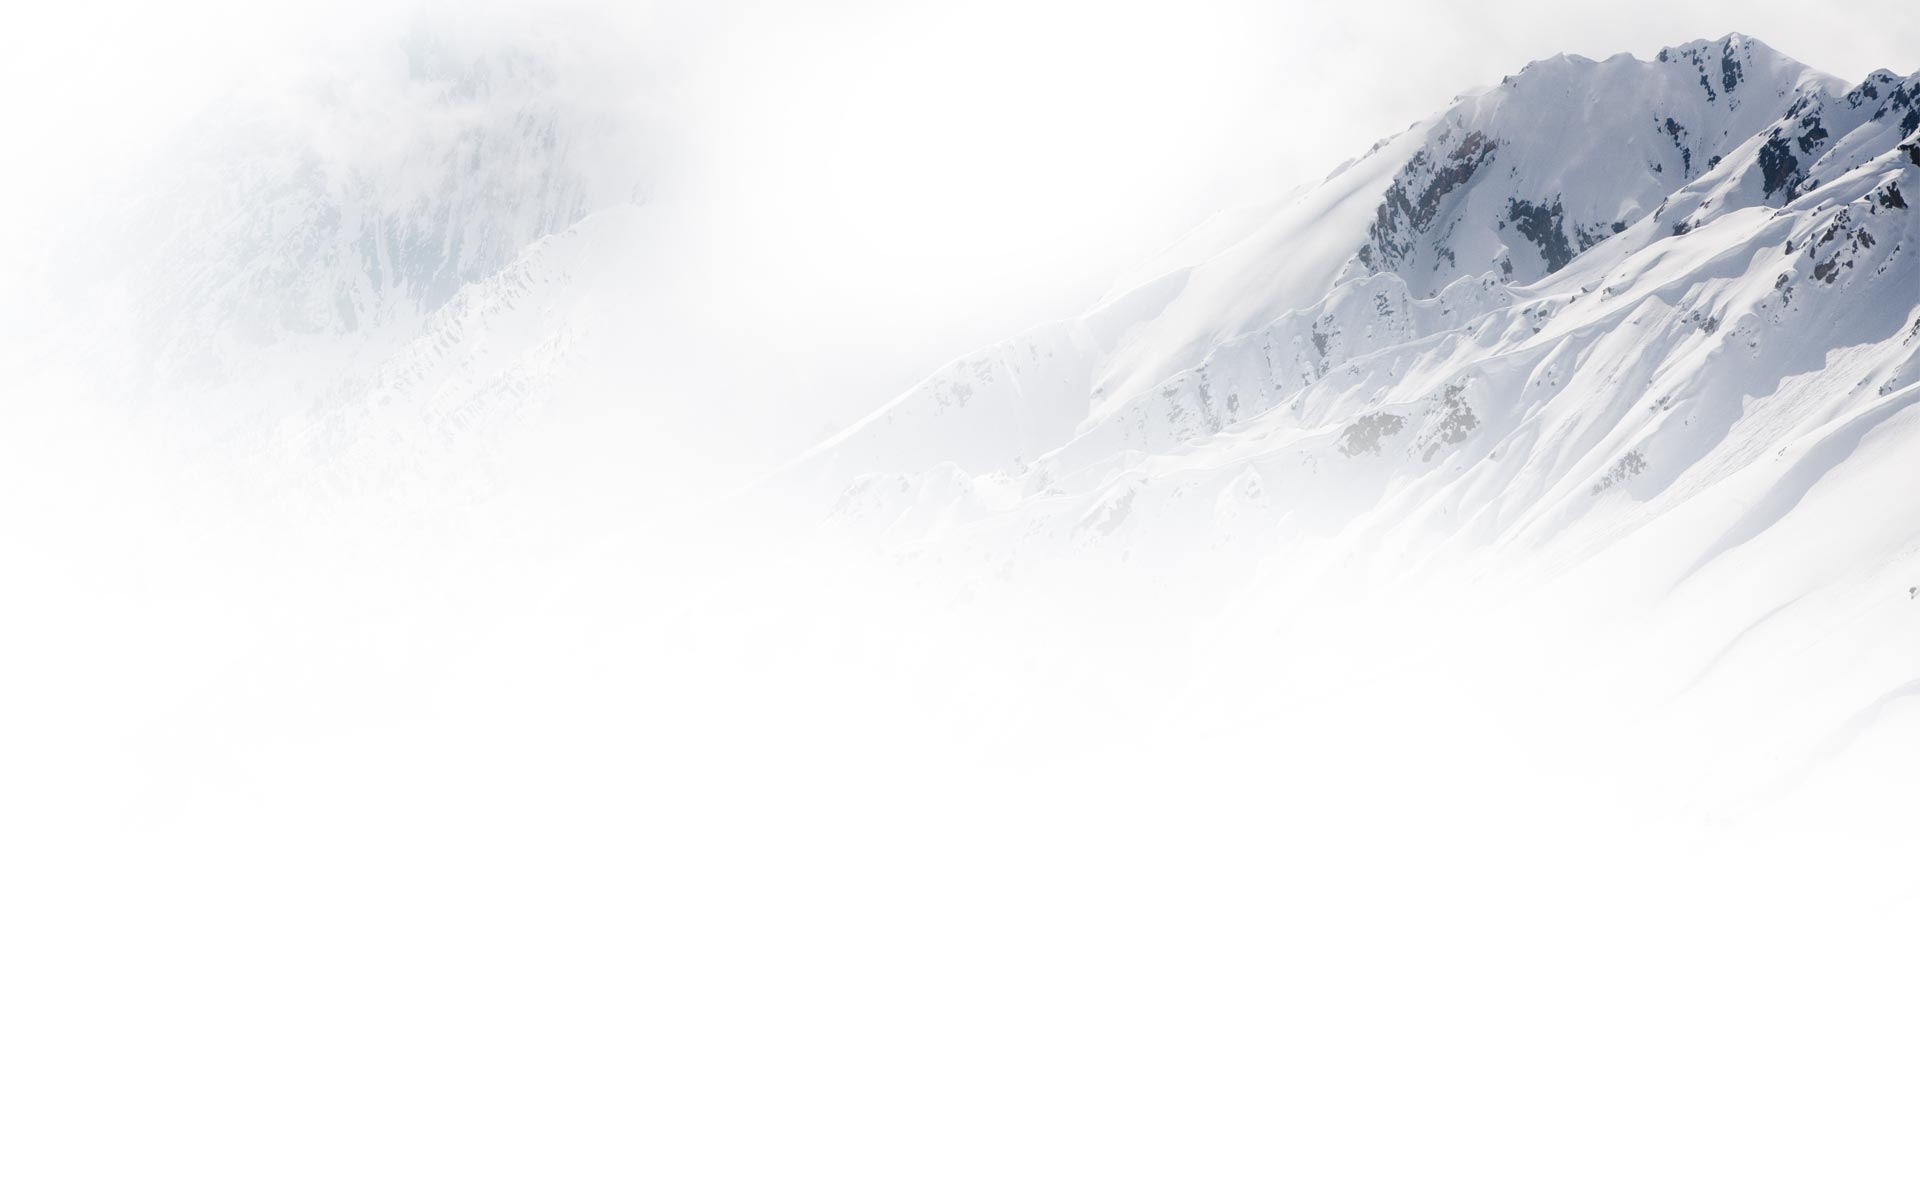
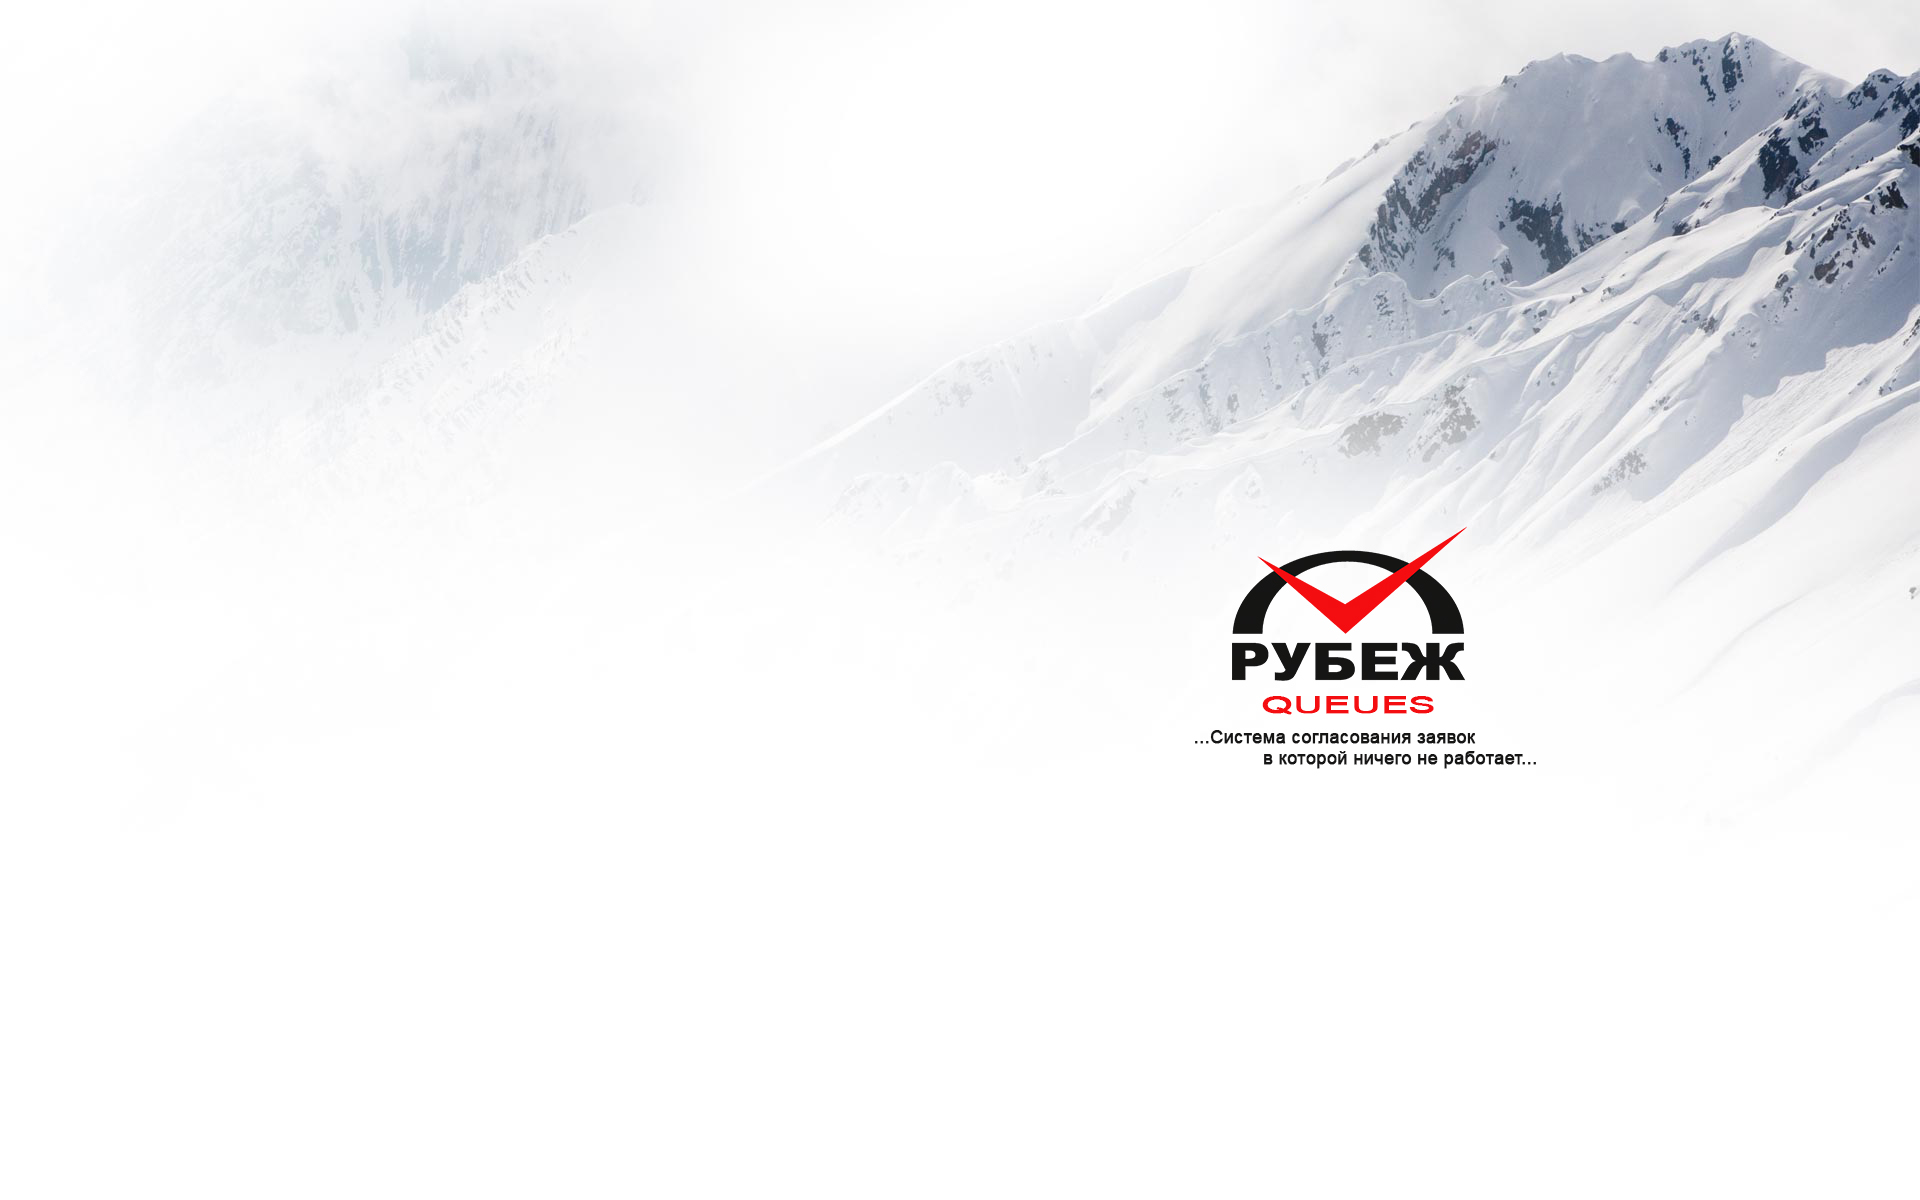
666

Changed region(s): [[0.625, 0.4317, 0.7812, 0.6475]]

diff --git a/templates/navbar.html b/templates/navbar.html
@@ -8,30 +8,31 @@
                 <span class="icon-bar"></span>
                 <span class="icon-bar"></span>
             </button>
-            <a class="navbar-brand" href="#">Project name</a>
+            <a class="navbar-brand" href="http://127.0.0.1:8000/"><font size="5" color="red" >R</font>ubezh Queues</a>
         </div>
         <div id="navbar" class="navbar-collapse collapse">
             <ul class="nav navbar-nav">
-                <li class="active"><a href="#">Home</a></li>
-                <li><a href="#about">About</a></li>
-                <li><a href="#contact">Contact</a></li>
+                <li class="active"><a href="http://127.0.0.1:8000/">Главная</a></li>
+                <li><a href="#aall">Все заявки</a></li>
+                <li><a href="#mmee">Заявки мне</a></li>
                 <li class="dropdown">
-                    <a href="#" class="dropdown-toggle" data-toggle="dropdown" role="button" aria-haspopup="true" aria-expanded="false">Dropdown <span class="caret"></span></a>
+                    <a href="#" class="dropdown-toggle" data-toggle="dropdown" role="button" aria-haspopup="true" aria-expanded="false">Администрирование <span class="caret"></span></a>
                     <ul class="dropdown-menu">
-                        <li><a href="#">Action</a></li>
-                        <li><a href="#">Another action</a></li>
-                        <li><a href="#">Something else here</a></li>
+                        <li><a href="http://127.0.0.1:8000/admin/">Администрирование БД</a></li>
+                        <li><a href="http://127.0.0.1:8000/landing/">Добавить пользователя</a></li>
                         <li role="separator" class="divider"></li>
-                        <li class="dropdown-header">Nav header</li>
-                        <li><a href="#">Separated link</a></li>
-                        <li><a href="#">One more separated link</a></li>
+                        <li class="dropdown-header">Ссылки на таблицы</li>
+                        <li><a href="http://127.0.0.1:8000/admin/landing/">Пользователи</a></li>
+                        <li><a href="http://127.0.0.1:8000/admin/applications/order_img/">Фотографии</a></li>
+                        <li><a href="http://127.0.0.1:8000/admin/applications/unit/">Звенья согласования</a></li>
+                        <li><a href="http://127.0.0.1:8000/admin/queues/queue_links/">Пользователи</a></li>
+                        <li><a href="http://127.0.0.1:8000/admin/landing/">Пользователи</a></li>
                     </ul>
                 </li>
             </ul>
             <ul class="nav navbar-nav navbar-right">
-                <li><a href="../navbar/">Default</a></li>
-                <li><a href="../navbar-static-top/">Static top</a></li>
-                <li class="active"><a href="./">Fixed top <span class="sr-only">(current)</span></a></li>
+
+                <li class="active"><a href="./">Наверх <span class="sr-only">(current)</span></a></li>
             </ul>
         </div><!--/.nav-collapse -->
     </div>

diff --git a/templates/landing/home.html b/templates/landing/home.html
@@ -6,10 +6,12 @@
         <img src="{% static 'static_dev/img/bg.jpg' %}" class="img-responsive">
     </div>
     <div class="section section1 allq-container">
+    <p><a name="aall"></a></p>
         <div class="container">
             <div class="row">
             <div class="col-lg12">
                 <h1 class="text-center">
+
                     Все заявки
                 </h1>
             </div>
@@ -38,12 +40,14 @@
             <div class="row">
                 <div class="col-lg12">
                     <h1 class="text-center">
+                         <p><a name="mmee"></a></p>
                         Заявки мне
                     </h1>
                 </div>
                 {% for Queue_linkss in Qu_meq %}
                     <div class="col-lg-3">
                         <div class="qu-item">
+                            <a href="{% url 'queue' Queue_linkss.q_links.id %}">
                             <div> <center><img src="{% static 'static_dev/img/list.png' %}" class="img-responsive"></center></div>
                             <h4>{{ Queue_linkss.q_links }}</h4>
                             <p> {{ Queue_linkss.q_links }}</p>

diff --git a/templates/queues/queue.html b/templates/queues/queue.html
@@ -2,9 +2,16 @@
 {% load static %}
 
 {% block content %}
-    <h3>Test</h3>
+    <h3>Согласование заявки</h3>
     <p>
     {{ queue }}
     </p>
-
+<center>
+     <button class="btn btn-success">
+                                    Согласовано
+                                </button>
+     <button class="btn btn-danger">
+                                    Не согласовано
+                                </button>
+<center>
 {% endblock %}

diff --git a/queues/admin.py b/queues/admin.py
@@ -4,6 +4,8 @@ from applications.models import Unit
 
 
 
+# Qline(admin.TabularInline):
+#     model = Unit
 
 
 
